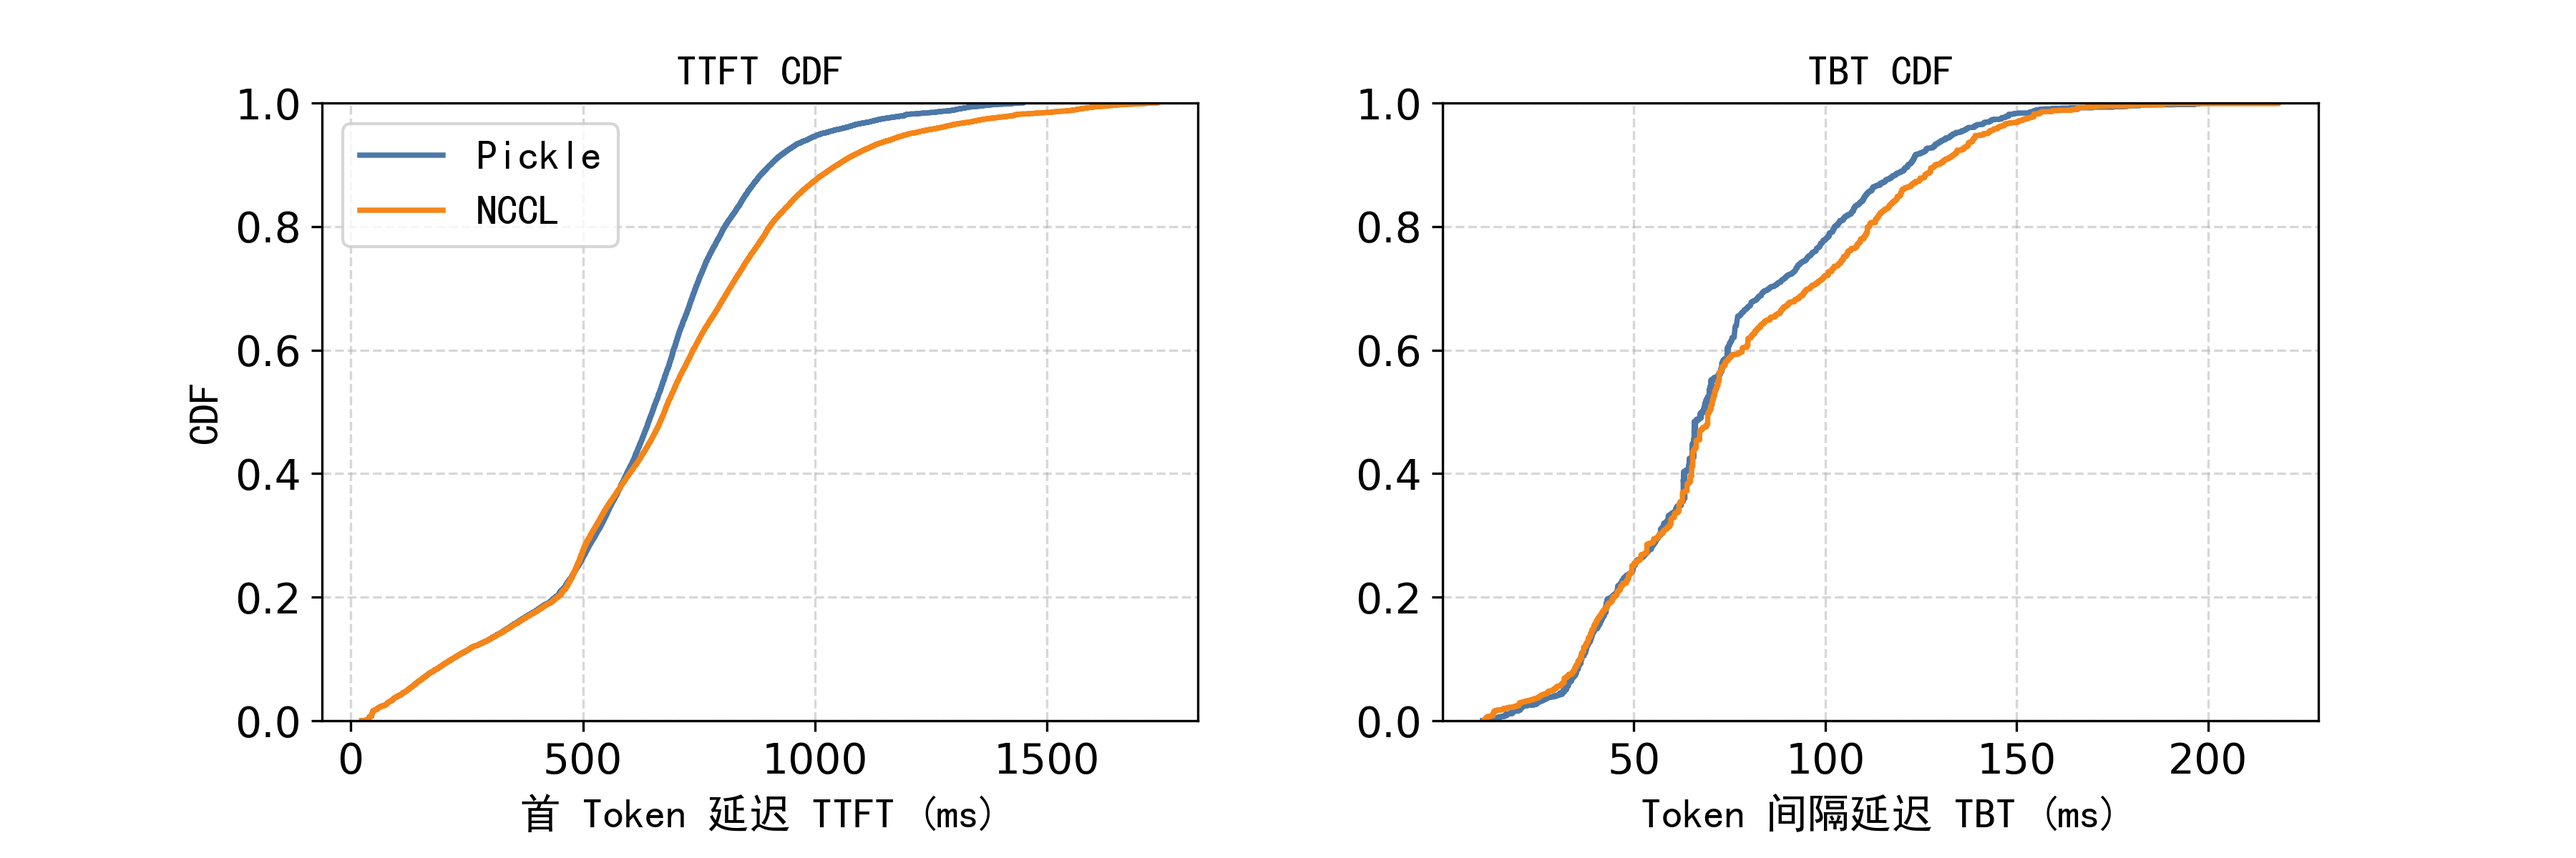
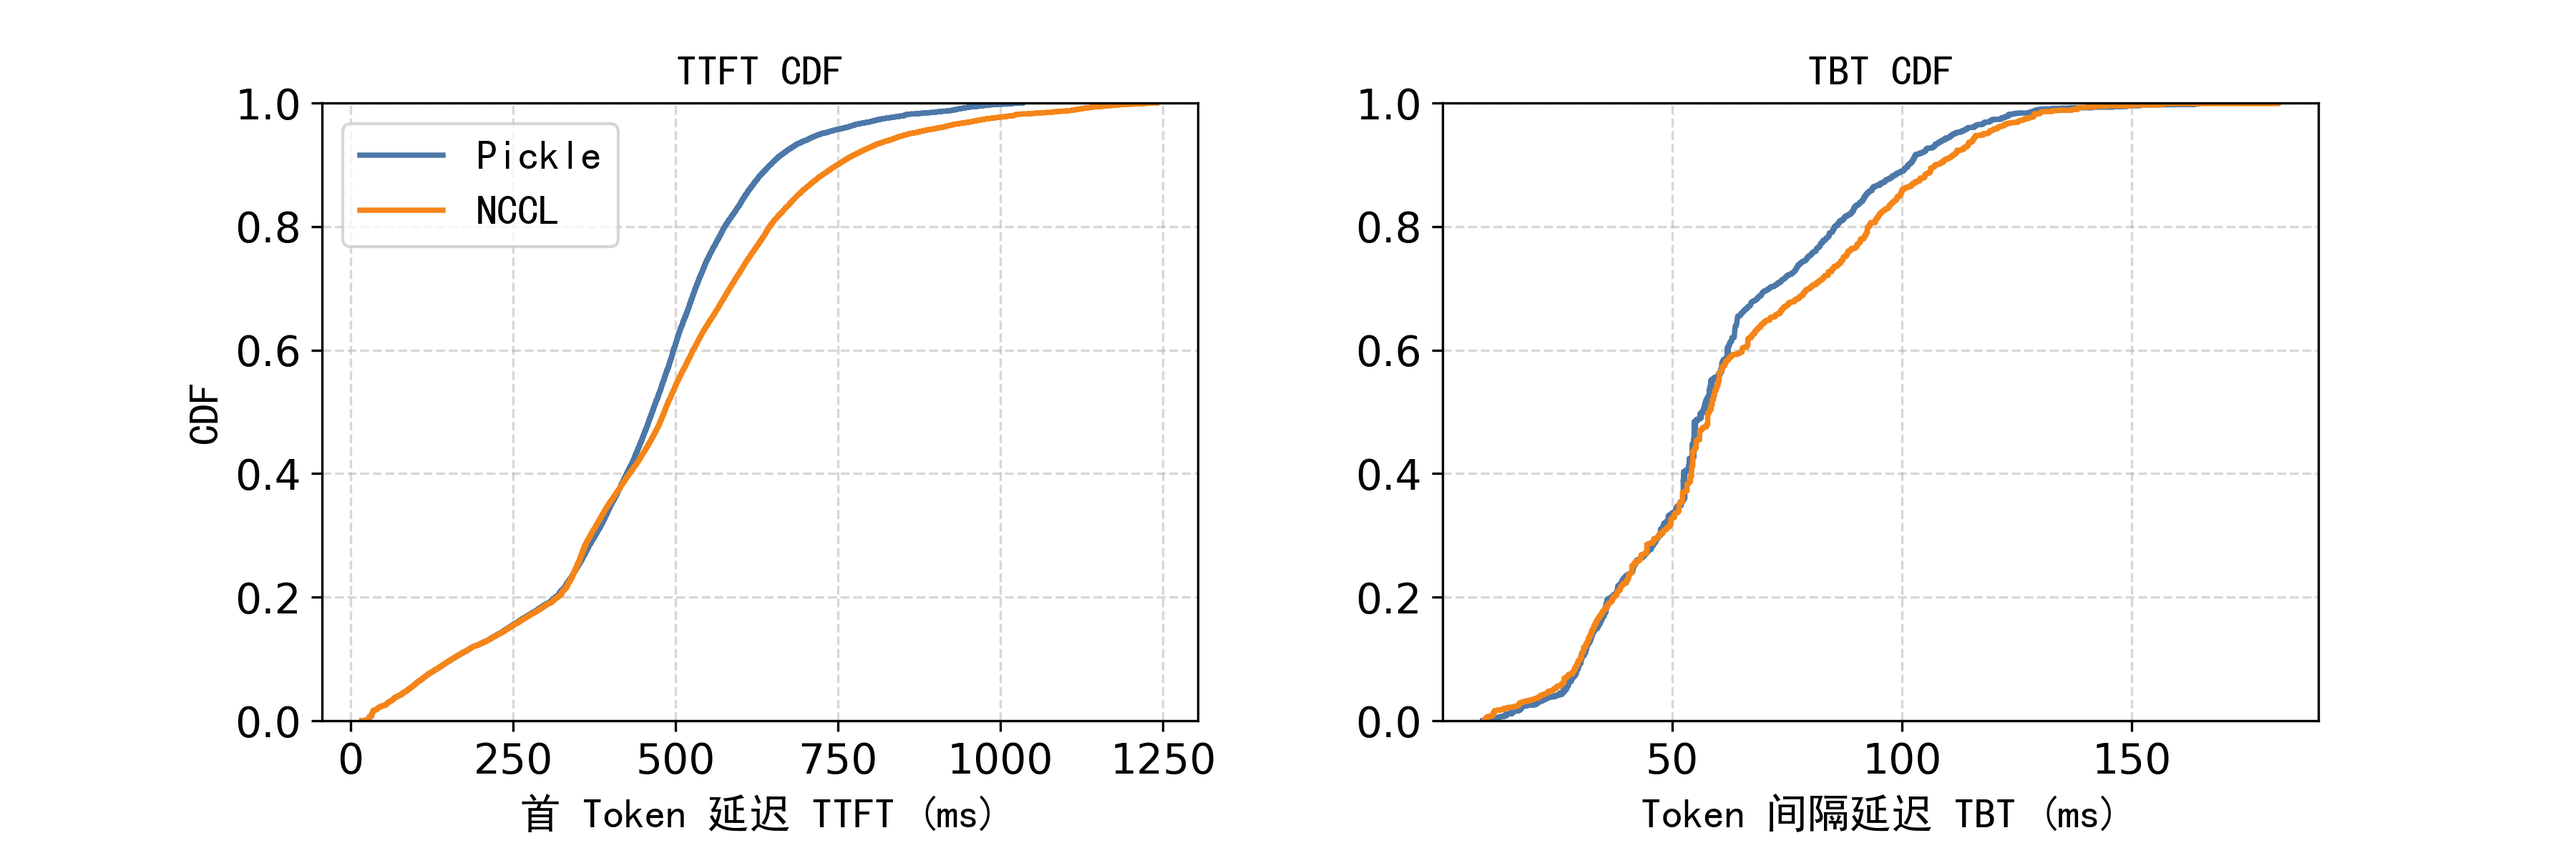
refine paper

diff --git a/contents/0-abstract.tex b/contents/0-abstract.tex
@@ -4,32 +4,36 @@
   随着大语言模型参数规模增长，分布式推理对通信带宽与低干扰提出更高要求。
   现有 GPU 通信库在推理负载下常将通信控制逻辑置于 GPU 侧，
   易与前台算子争用计算资源，且难以按流量重要性调度，导致吞吐受限并放大尾延迟。
-  本文面向该场景设计并实现高性能通信库\sysname。
+  本文面向该场景设计并实现高性能通信库\sysname{}。
 
-  \sysname 以控制面完全卸载为核心，将通信发起与调度交由 CPU 后台线程处理，GPU 侧仅负责数据搬运；
+  \sysname{} 以控制面完全卸载为核心，将通信发起与调度交由 CPU 后台线程处理，GPU 侧仅负责数据搬运；
   跨节点采用 GPUDirect RDMA 实现显存到显存传输，
   节点内基于 CUDA 进程间通信并利用拷贝引擎驱动 NVLink，通过句柄缓存降低映射开销。
   为适配复杂流量，系统实现异步运行时与支持抢占的优先级调度器，并以统一的发送/接收接口屏蔽多链路差异。
 
-  实验表明 \sysname 在点对点通信的带宽与基准系统相当或更优。
-  同时本文进行了计算与通信重叠的测试，
-  在相同配置下 \sysname 对于计算任务性能无影响，基准系统计算性能损失最高约 17\%。
-  在端到端解码中相邻词元生成间隔分布更集中、更稳定。
-  说明 \sysname 可在保证高效传输的同时避免通信对计算的干扰，为高吞吐、低尾延迟推理提供通信基础。
+  实验表明 \sysname{} 在点对点通信的带宽与基准系统相当或更优。
+  同时本文针对计算与通信重叠的场景进行了系统测试，
+  在相同配置下 \sysname{} 对于计算任务性能无影响，基准系统计算性能损失最高约 17\%；
+  在端到端测试中，\sysname{} 相比于基准系统在 首令牌生成时间 和 相邻令牌生成间隔 指标上最多分别取得 16\% 和 6.9\% 的提升；
+  在解码过程中相邻令牌生成间隔分布更集中、更稳定。
+  说明 \sysname{} 可在保证高效传输的同时避免通信对计算的干扰，为高吞吐、低尾延迟推理提供通信基础。
 \end{abstract}
 
 \begin{abstract}[en]
-  As the parameter scale of large language models continues to grow, distributed inference places higher demands on communication bandwidth and low interference with computation.
-  Existing GPU communication libraries often keep communication control logic on the GPU under inference workloads, which can contend with foreground kernels for compute resources and makes it difficult to schedule traffic by importance, thereby limiting throughput and amplifying tail latency.
-  To address this, this thesis designs and implements a high-performance communication library, \sysname, for large-model inference.
+  As the parameter scale of large language models continues to grow, distributed inference imposes increasingly stringent requirements on communication bandwidth and low interference.
+  Existing GPU communication libraries commonly place communication control logic on the GPU under inference workloads,
+  which easily contends with foreground kernels for compute resources and makes it difficult to schedule traffic according to importance, thereby limiting throughput and exacerbating tail latency.
+  To address this scenario, this paper designs and implements a high-performance communication library, \sysname{}.
 
-  The key idea of \sysname{} is full control-plane offloading: communication initiation and scheduling are handled by CPU background threads, while the GPU is responsible only for data movement.
-  For inter-node communication, \sysname{} adopts GPUDirect RDMA to enable GPU memory-to-memory transfers.
-  For intra-node communication, it leverages CUDA inter-process communication and drives NVLink via copy engines, reducing mapping overhead through handle caching.
-  To accommodate complex traffic patterns, the system provides an asynchronous runtime and a preemptive priority scheduler, and exposes a unified send/receive interface to hide differences across multiple links.
+  The core design of \sysname{} is the control plane offloading: communication initiation and scheduling are handled by background CPU threads, while the GPU is responsible solely for data movement.
+  For inter-node communication, \sysname{} adopts GPUDirect RDMA to enable device-to-device memory transfers.
+  For intra-node communication, it is built upon CUDA IPC and leverages copy engines to drive NVLink, with handle caching employed to reduce mapping overhead.
+  To accommodate complex traffic patterns, the system implements an asynchronous runtime and a preemptive priority scheduler, and provides a unified send/receive interface to abstract away heterogeneity across multiple links.
 
-  Experiments show that \sysname{} achieves point-to-point bandwidth comparable to or better than the baseline system.
-  We further evaluate computation--communication overlap: under the same configuration, \sysname{} does not degrade compute performance, whereas the baseline incurs up to about 17\% compute slowdown.
-  In end-to-end decoding, the distribution of inter-token generation intervals is more concentrated and stable.
-  These results indicate that \sysname{} can maintain efficient data transfer while avoiding interference with computation, providing a communication foundation for high-throughput and low-tail-latency inference.
+  Experimental results show that \sysname{} achieves point-to-point communication bandwidth comparable to or better than the baseline system.
+  In addition, we conduct systematic evaluations under scenarios with overlapped computation and communication.
+  Under identical configurations, \sysname{} incurs no performance degradation to computation tasks, whereas the baseline system suffers up to approximately 17\% computation performance loss.
+  In end-to-end evaluations, compared with the baseline system, \sysname{} achieves improvements of up to 16\% and 6.9\% in time-to-first-token and time-between-tokens, respectively.
+  Moreover, during decoding, the distribution of time-between-tokens is more concentrated and stable.
+  These results demonstrate that \sysname{} can maintain efficient data transfer while avoiding interference between communication and computation, providing a solid communication foundation for high-throughput, low-tail-latency inference.
 \end{abstract}

diff --git a/contents/6-conclusion.tex b/contents/6-conclusion.tex
@@ -13,7 +13,7 @@
 在系统设计上，\sysname 通过统一的 \texttt{send()} / \texttt{recv()} 双向接口抽象屏蔽底层链路差异，
 在跨节点场景使用 GPUDirect RDMA 构建高效的数据面通路，在节点内场景则基于 CUDA IPC 与 Copy Engine 实现 SM-free 的高带宽搬运。
 在实现层面，本文给出了事件机制、运行时轮询框架以及 RDMA/NVLink 两类链路执行器的关键工程细节与性能优化，
-包括控制面批处理、GPUDirect RDMA 可见性保证以及 CUDA IPC 映射缓存复用等。
+包括控制面批处理、GPUDirect RDMA 可见性保证以及 CUDA IPC Memory Handle 映射缓存复用等。
 
 实验结果表明，相比 NCCL 等基线方案，\sysname 在点对点与集合通信场景下能够提供具有竞争力的带宽表现，
 并显著降低通信对前台计算的干扰；在端到端推理负载中，\sysname 能够保持更稳定的解码节奏，

diff --git a/scripts/plot_cdf.py b/scripts/plot_cdf.py
@@ -72,8 +72,8 @@ def _plot_cdf(ax, points: list[CdfPoint], *, label: str, color: str) -> None:
 
 def main() -> None:
     font = FontProperties(fname=str(repo_root / "SimHei.ttf"), size=font_size)
-    ttft_factor = 0.7
-    tbt_factor = 0.3
+    ttft_factor = 0.5
+    tbt_factor = 0.25
     ttft_pickle_points = _load_cdf_points(
         TTFT_PICKLE_CSV, "pickle", x_col="ttft_ms", factor=ttft_factor
     )

diff --git a/main.tex b/main.tex
@@ -62,8 +62,8 @@
 \tableofcontents
 % 插图索引
 \listoffigures
-% 表格索引
-\listoftables
+% % 表格索引
+% \listoftables
 % 算法索引
 \listofalgorithms
 
